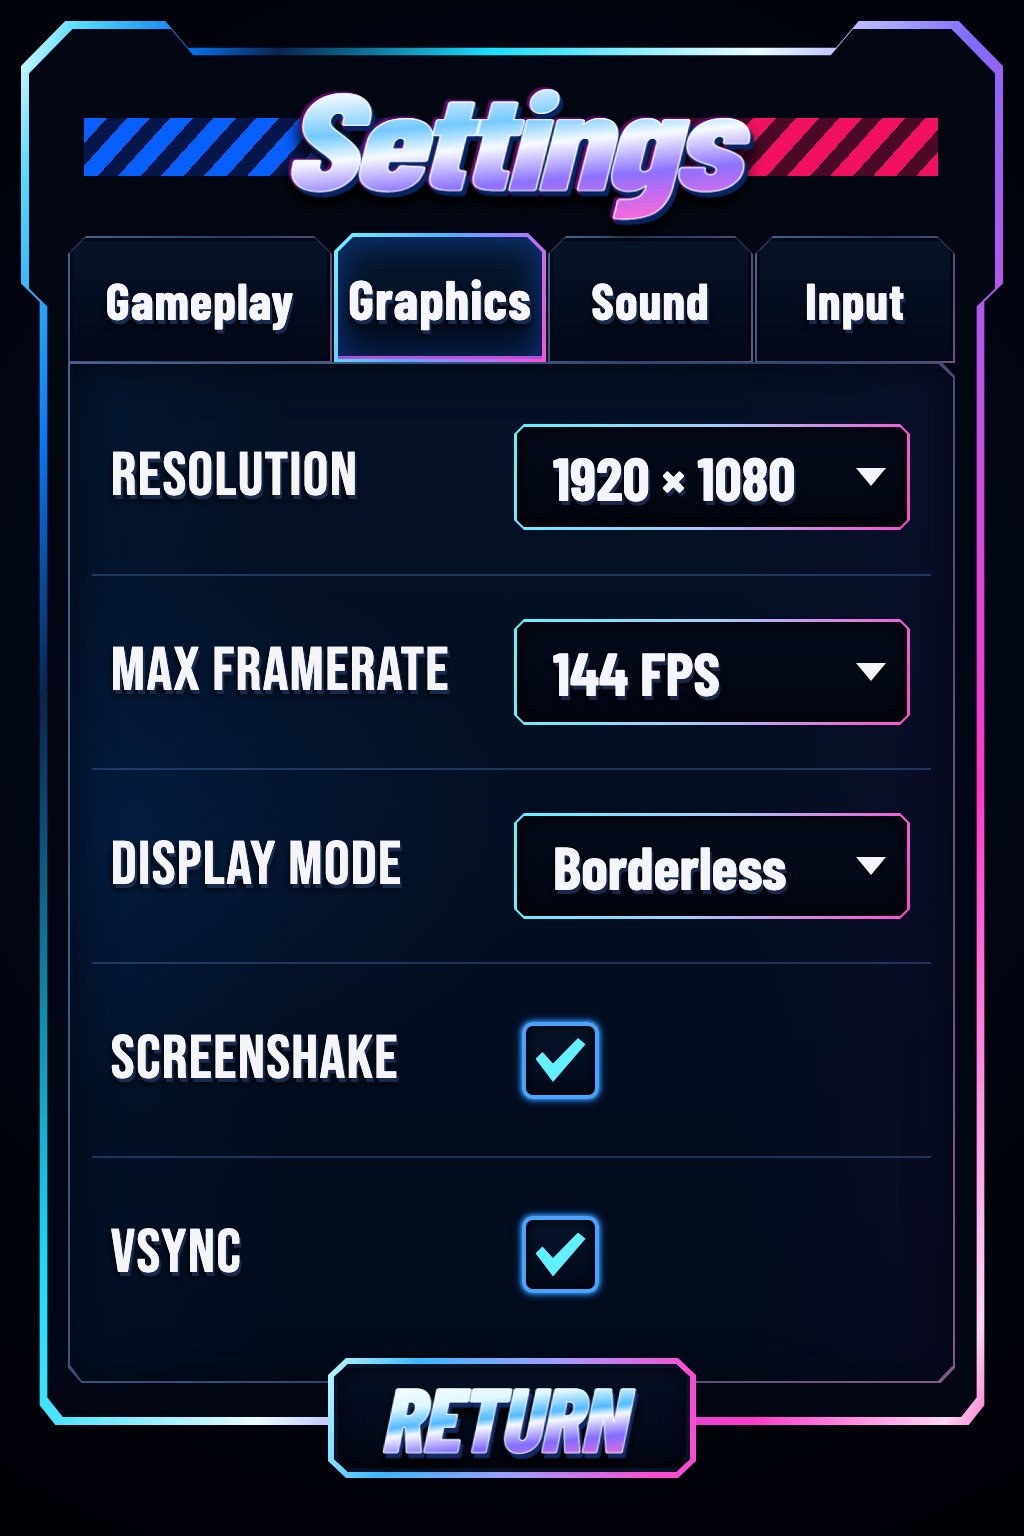
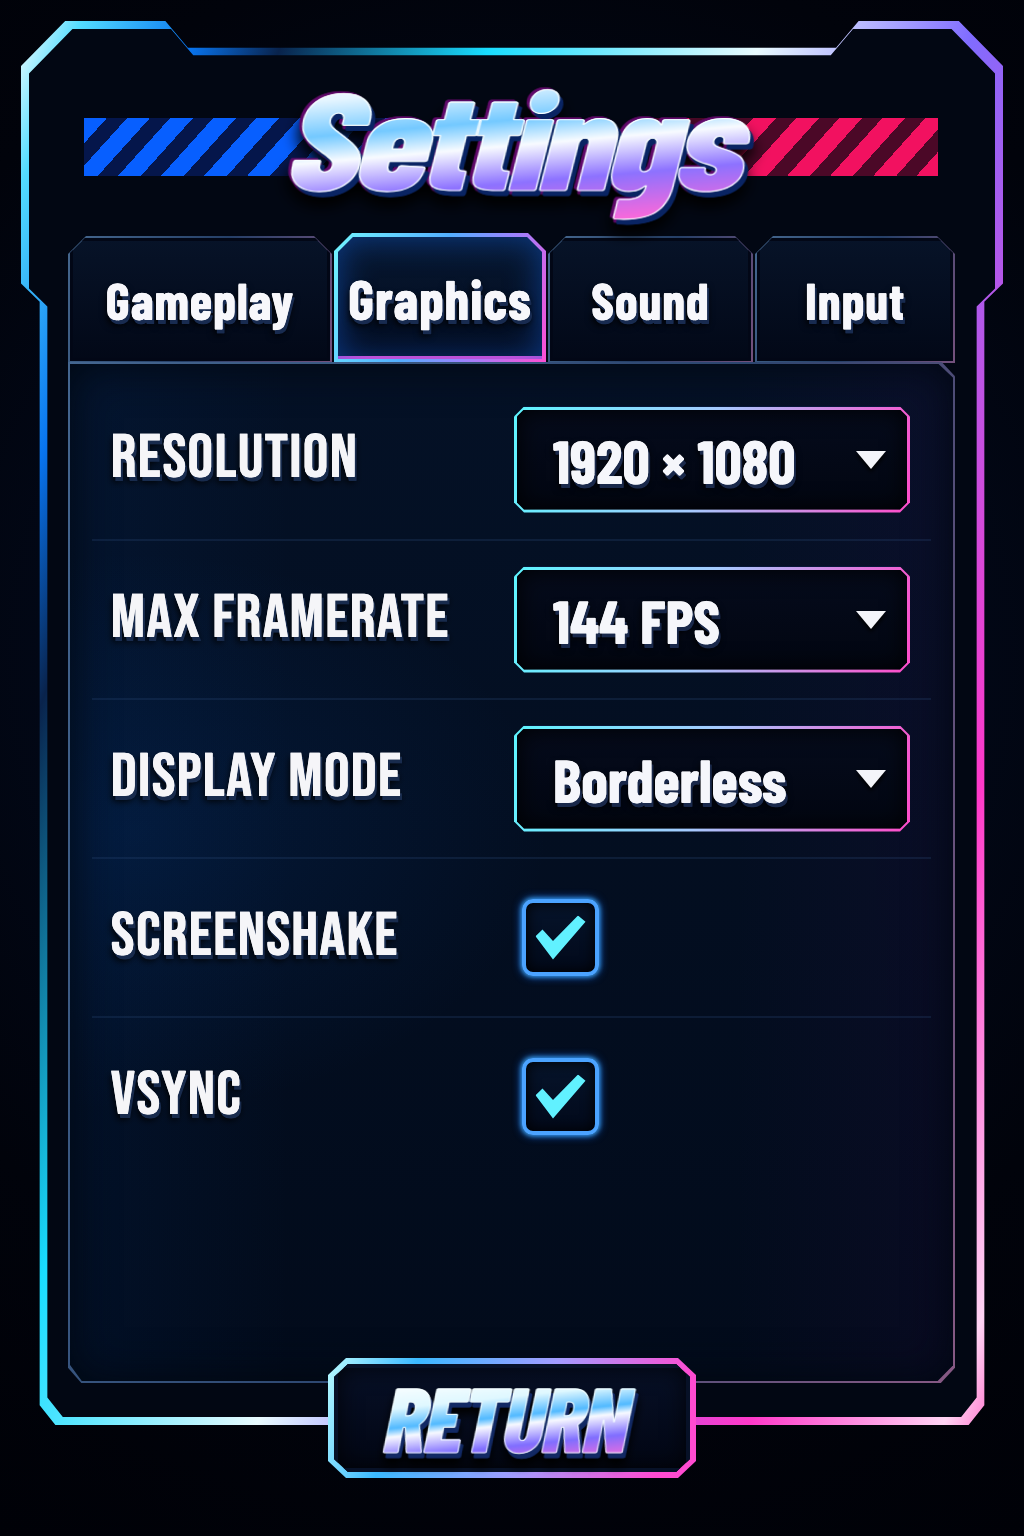
refactor: share settings row layout

diff --git a/app/components/SettingsControls.tsx b/app/components/SettingsControls.tsx
@@ -1,12 +1,12 @@
 import type { ReactNode } from "react";
-import { displayFont } from "./styles";
 import { actionInnerClip, actionOuterClip, ClippedInset, controlInnerClip, controlOuterClip } from "./ClippedInset";
+import { SettingRow } from "./SettingRow";
 
-type BaseProps = { label: ReactNode; first?: boolean; offsetY?: number; rowHeight?: number; strongRule?: boolean };
+type BaseProps = { label: ReactNode; first?: boolean; offsetY?: number; rowHeight?: number };
 
-export function SelectControl({ label, options, value, onChange, first = false, offsetY = 0, rowHeight = 158, strongRule = false }: BaseProps & { options: string[]; value: string; onChange: (value: string) => void }) {
+export function SelectControl({ label, options, value, onChange, first = false, offsetY = 0, rowHeight }: BaseProps & { options: string[]; value: string; onChange: (value: string) => void }) {
   return (
-    <SettingRow first={first} label={label} rowHeight={rowHeight} strongRule={strongRule}>
+    <SettingRow first={first} label={label} rowHeight={rowHeight}>
       <div style={{ position: "relative", display: "flex", alignItems: "center", height: "100%", transform: `translateY(${offsetY}px)` }}>
         <div
           aria-hidden="true"
@@ -61,9 +61,9 @@ export function SelectControl({ label, options, value, onChange, first = false, 
   );
 }
 
-export function ToggleControl({ checked, label, ariaLabel, onChange, withInfo = false, rowHeight = 159, offsetY = 0, strongRule = false }: BaseProps & { checked: boolean; ariaLabel?: string; onChange: (checked: boolean) => void; withInfo?: boolean }) {
+export function ToggleControl({ checked, label, ariaLabel, onChange, withInfo = false, rowHeight, offsetY = 0 }: BaseProps & { checked: boolean; ariaLabel?: string; onChange: (checked: boolean) => void; withInfo?: boolean }) {
   return (
-    <SettingRow label={<>{label}{withInfo && <InfoBadge />}</>} rowHeight={rowHeight} strongRule={strongRule}>
+    <SettingRow label={<>{label}{withInfo && <InfoBadge />}</>} rowHeight={rowHeight}>
       <label style={{ position: "relative", display: "flex", alignItems: "center", width: 77, height: 77, marginLeft: 8, cursor: "pointer", transform: `translateY(${offsetY}px)` }}>
         <input suppressHydrationWarning aria-label={ariaLabel ?? String(label)} checked={checked} onChange={(event) => onChange(event.target.checked)} type="checkbox" style={{ position: "absolute", inset: 0, zIndex: 2, width: 77, height: 77, margin: 0, opacity: 0, cursor: "pointer" }} />
         <span aria-hidden="true" style={{ position: "relative", boxSizing: "border-box", width: 77, height: 77, border: "4px solid #4ba3ff", borderRadius: 11, background: "linear-gradient(180deg, #06142b, #02091a)", boxShadow: "inset 0 0 14px #000, 0 0 10px #166cff, 0 0 5px #6af6ff" }}>
@@ -76,23 +76,12 @@ export function ToggleControl({ checked, label, ariaLabel, onChange, withInfo = 
 
 export function EraseControl() {
   return (
-    <SettingRow label="Erase Saved Data" last>
+    <SettingRow label="Erase Saved Data">
       <button type="button" style={{ position: "relative", boxSizing: "border-box", width: 362, height: 114, marginLeft: 21, display: "grid", placeItems: "center", border: 0, padding: 0, clipPath: actionOuterClip, color: "#ff3553", background: "#ff355e", filter: "drop-shadow(0 0 9px rgba(255,20,78,.55))", fontFamily: "'Barlow Condensed', Impact, sans-serif", fontWeight: 700, fontSize: 67, textShadow: "0 0 11px rgba(255,25,76,.55)", cursor: "pointer", transform: "translateY(-8px)" }}>
         <ClippedInset inset={4} clipPath={actionInnerClip} background="radial-gradient(ellipse at 50% 45%, #200511, #07030c 67%, #020208)" boxShadow="inset 0 0 22px #000" />
         <span style={{ position: "relative", zIndex: 1, lineHeight: 0.9, transform: "translateY(-1px)" }}>ERASE</span>
       </button>
     </SettingRow>
-  );
-}
-
-function SettingRow({ label, children, first = false, last = false, rowHeight, strongRule = false }: BaseProps & { children: ReactNode; last?: boolean }) {
-  return (
-    <div style={{ boxSizing: "border-box", height: rowHeight ?? (last ? 169 : 159), display: "grid", gridTemplateColumns: "422px 1fr", alignItems: "center", borderTop: first ? 0 : `2px solid rgba(55,91,148,${strongRule ? ".52" : ".25"})` }}>
-      <div style={{ position: "relative", display: "flex", alignItems: "center", minWidth: 0, height: "100%", paddingLeft: 18, color: "#f5f5f8", fontFamily: displayFont, fontSize: 61, lineHeight: 0.92, letterSpacing: "1.3px", textTransform: "uppercase", textShadow: "2px 4px 0 #182b4d, 0 5px 7px #000", transform: "scaleX(1.045)", transformOrigin: "left center" }}>
-        {label}
-      </div>
-      {children}
-    </div>
   );
 }
 

diff --git a/app/components/SettingsScreen.tsx b/app/components/SettingsScreen.tsx
@@ -83,21 +83,17 @@ export function SettingsScreen() {
                   value={language}
                   options={["English", "Español", "Français", "Deutsch"]}
                   onChange={setLanguage}
-                  offsetY={5}
                 />
                 <SelectControl
                   label="Text Size"
                   value={textSize}
                   options={["Small", "Medium", "Large"]}
                   onChange={setTextSize}
-                  offsetY={2}
                 />
                 <ToggleControl
                   checked={reduceMotion}
                   label="Reduce Motion"
                   onChange={setReduceMotion}
-                  rowHeight={147}
-                  offsetY={1}
                 />
                 <ToggleControl
                   checked={increaseMoveDuration}
@@ -110,8 +106,6 @@ export function SettingsScreen() {
                   }
                   ariaLabel="Increase Move Duration"
                   onChange={setIncreaseMoveDuration}
-                  rowHeight={173}
-                  offsetY={-7}
                 />
                 <ToggleControl
                   checked={uploadCrashReports}
@@ -125,8 +119,6 @@ export function SettingsScreen() {
                   ariaLabel="Upload Crash Reports"
                   onChange={setUploadCrashReports}
                   withInfo
-                  rowHeight={166}
-                  offsetY={-8}
                 />
                 <EraseControl />
               </>

diff --git a/app/components/SettingRow.tsx b/app/components/SettingRow.tsx
@@ -1,0 +1,52 @@
+import type { ReactNode } from "react";
+import { displayFont } from "./styles";
+
+export const settingsRowHeight = 159;
+
+export function SettingRow({
+  label,
+  children,
+  first = false,
+  rowHeight,
+}: {
+  label: ReactNode;
+  children: ReactNode;
+  first?: boolean;
+  rowHeight?: number;
+}) {
+  return (
+    <div
+      style={{
+        boxSizing: "border-box",
+        height: rowHeight ?? settingsRowHeight,
+        display: "grid",
+        gridTemplateColumns: "422px 1fr",
+        alignItems: "center",
+        borderTop: first ? 0 : "2px solid rgba(43,74,123,.25)",
+      }}
+    >
+      <div
+        style={{
+          position: "relative",
+          display: "flex",
+          alignItems: "center",
+          minWidth: 0,
+          height: "100%",
+          paddingLeft: 18,
+          color: "#f5f5f8",
+          fontFamily: displayFont,
+          fontSize: 61,
+          lineHeight: 0.92,
+          letterSpacing: "1.3px",
+          textTransform: "uppercase",
+          textShadow: "2px 4px 0 #182b4d, 0 5px 7px #000",
+          transform: "scaleX(1.045)",
+          transformOrigin: "left center",
+        }}
+      >
+        {label}
+      </div>
+      {children}
+    </div>
+  );
+}

diff --git a/app/components/GraphicsSettings.tsx b/app/components/GraphicsSettings.tsx
@@ -31,33 +31,25 @@ export function GraphicsSettings({
         value={resolution}
         options={["1920 × 1080", "2560 × 1440", "3840 × 2160"]}
         onChange={onResolutionChange}
-        rowHeight={194}
-        strongRule
       />
       <SelectControl
         label="Max Framerate"
         value={maxFramerate}
         options={["60 FPS", "120 FPS", "144 FPS", "240 FPS"]}
         onChange={onMaxFramerateChange}
-        rowHeight={194}
-        strongRule
       />
       <SelectControl
         label="Display Mode"
         value={displayMode}
         options={["Borderless", "Fullscreen", "Windowed"]}
         onChange={onDisplayModeChange}
-        rowHeight={194}
-        strongRule
       />
       <ToggleControl
         checked={screenshake}
         label="Screenshake"
         onChange={onScreenshakeChange}
-        rowHeight={194}
-        strongRule
       />
-      <ToggleControl checked={vsync} label="VSync" onChange={onVsyncChange} rowHeight={195} strongRule />
+      <ToggleControl checked={vsync} label="VSync" onChange={onVsyncChange} />
     </div>
   );
 }
